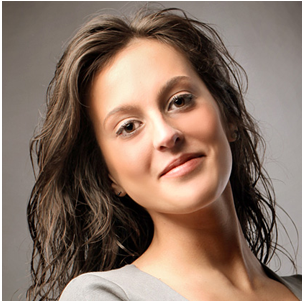
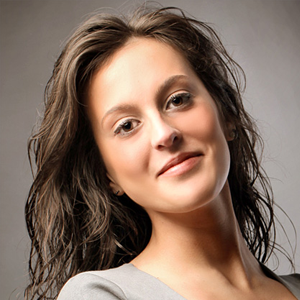
feat: add pictures on page

diff --git a/singolo2.html b/singolo2.html
@@ -3,16 +3,14 @@
 <head>
     <meta charset="UTF-8">
     <title>Singolo part 2</title>
+    <link href="https://fonts.googleapis.com/css?family=Lato:300,400,900&display=swap" rel="stylesheet">
+    <link href="./singolo2.css" rel="stylesheet">
 </head>
 <body>
-<header>
-    <div class="wrapper">
-        <h1 class="header_name">Portfolio</h1>
-        <div class="header_description">Duis mollis, est non commodo luctus, nisi erat porttitor ligula, eget lacinia odio sem nec elit.</div>
-    </div>
-</header>
 <main>
     <div class="wrapper">
+        <div class="header_name">Portfolio</div>
+        <div class="header_description">Duis mollis, est non commodo luctus, nisi erat porttitor ligula, eget lacinia odio sem nec elit.</div>
         <div class="navigation">
             <div class="tag">All</div>
             <div class="tag">Web Design</div>
@@ -20,47 +18,100 @@
             <div class="tag">Artwork</div>
         </div>
         <div class="pictures">
-            <div class="picture"></div>
-            <div class="picture"></div>
-            <div class="picture"></div>
-            <div class="picture"></div>
-            <div class="picture"></div>
-            <div class="picture"></div>
-            <div class="picture"></div>
-            <div class="picture"></div>
-            <div class="picture"></div>
-            <div class="picture"></div>
-            <div class="picture"></div>
-            <div class="picture"></div>
+            <div class="picture">
+                <span class="picture1"></span>
+            </div>
+            <div class="picture">
+                <span class="picture2"></span>
+            </div>
+            <div class="picture">
+                <span class="picture3"></span>
+            </div>
+            <div class="picture">
+                <span class="picture4"></span>
+            </div>
+            <div class="picture">
+                <span class="picture5"></span>
+            </div>
+            <div class="picture">
+                <span class="picture6"></span>
+            </div>
+            <div class="picture">
+                <span class="picture7"></span>
+            </div>
+            <div class="picture">
+                <span class="picture8"></span>
+            </div>
+            <div class="picture">
+                <span class="picture9"></span>
+            </div>
+            <div class="picture">
+                <span class="picture10"></span>
+            </div>
+            <div class="picture">
+                <span class="picture11"></span>
+            </div>
+            <div class="picture">
+                <span class="picture12"></span>
+            </div>
         </div>
+        <div class="main_bottom_line"></div>
     </div>
 </main>
 <footer>
     <div class="wrapper">
-        <h2>About Us</h2>
+        <div>About Us</div>
         <div class="about_description">
             Fusce dapibus, tellus ac cursus commodo, tortor mauris condimentum. Duis mollis, non commodo luctus, nisi erat porttitor ligula, eget lacinia odio sem nec elit. Fusce dapibus, tellus ac cursus commodo, tortor mauris condimentum nibh.
         </div>
         <div class="people">
             <div class="person_info">
-                <span class="photo"></span>
+                <div class="photo">
+                    <span class="photo1"></span>
+                </div>
                 <h3 class="name">Adam Jensen</h3>
                 <p class="photo_description">Quisque luctus, quam eget molestie commodo, lacus purus cursus purus, nec rutrum tellus dolor id lorem.</p>
-                <div class="social"></div>
+                <div class="socials">
+                    <div class="social">
+                        <span class="facebook"></span>
+                        <span class="google"></span>
+                        <span class="twitter"></span>
+                        <span class="linkedin"></span>
+                    </div>
+                </div>
             </div>
             <div class="person_info">
-                <span class="photo"></span>
+                <div class="photo">
+                    <span class="photo2"></span>
+                </div>
                 <h3 class="name">Desmond Miles</h3>
                 <p class="photo_description">Curabitur vestibulum eget mauris quis laoreet. Phasellus in quam laoreet, viverra lacus ut, ultrices velit.</p>
-                <div class="social"></div>
+                <div class="socials">
+                    <div class="social">
+                        <span class="facebook"></span>
+                        <span class="google"></span>
+                        <span class="twitter"></span>
+                        <span class="linkedin"></span>
+                    </div>
+                </div>
             </div>
             <div class="person_info">
-                <span class="photo"></span>
+                <div class="photo">
+                    <span class="photo3"></span>
+                </div>
                 <h3 class="name">Scolara Visari</h3>
                 <p class="photo_description">Nulla sed nunc et tortor luctus faucibus. Morbi at aliquet turpis, et consequat felis. Quisque condimentum.</p>
-                <div class="social"></div>
+                <div class="socials">
+                    <div class="social">
+                        <span class="facebook"></span>
+                        <span class="google"></span>
+                        <span class="twitter"></span>
+                        <span class="linkedin"></span>
+                    </div>
+                </div>
             </div>
         </div>
+        <div class="footer_bottom_line"></div>
     </div>
 </footer>
 </body>

diff --git a/singolo2.css b/singolo2.css
@@ -1,0 +1,178 @@
+body {
+    margin: 0;
+    padding: 0;
+    font-family: Lato, Verdana, sans-serif;
+}
+
+main .wrapper {
+    background-color: #2d2f39;
+    width: 1020px;
+    height: 870px;
+}
+
+.main_bottom_line {
+    width: 1020px;
+    height: 6px;
+    background-color: #323746;
+}
+
+footer .wrapper {
+    width: 1020px;
+    height: 728px;
+    background-color: #f2f2f2;
+}
+
+.footer_bottom_line {
+    width: 1020px;
+    height: 6px;
+    background-color: #ffffff;
+}
+
+.header_name {
+    font-size: 30px;
+    line-height: 18px;
+    color: #666d89;
+    font-weight: 900;
+    text-align: left;
+}
+
+.header_description {
+    width: 940px;
+    height: 57px;
+    font-size: 18px;
+    line-height: 30px;
+    color: #767e9e;
+    font-weight: 300;
+    text-align: left;
+}
+
+/*Images*/
+
+.picture {
+    height: 187px;
+    width: 220px;
+}
+
+.picture1 {
+    display: block;
+    background-image: url("./assets/singolo2/pictures/picture1.png");
+    height: 100%;
+}
+
+.picture2 {
+    display: block;
+    background-image: url("./assets/singolo2/pictures/picture2.png");
+    height: 100%;
+}
+
+.picture3 {
+    display: block;
+    background-image: url("./assets/singolo2/pictures/picture3.png");
+    height: 100%;
+}
+
+.picture4 {
+    display: block;
+    background-image: url("./assets/singolo2/pictures/picture4.png");
+    height: 100%;
+}
+
+.picture5 {
+    display: block;
+    background-image: url("./assets/singolo2/pictures/picture5.png");
+    height: 100%;
+}
+
+.picture6 {
+    display: block;
+    background-image: url("./assets/singolo2/pictures/picture6.png");
+    height: 100%;
+}
+
+.picture7 {
+    display: block;
+    background-image: url("./assets/singolo2/pictures/picture7.png");
+    height: 100%;
+}
+
+.picture8 {
+    display: block;
+    background-image: url("./assets/singolo2/pictures/picture8.png");
+    height: 100%;
+}
+
+.picture9 {
+    display: block;
+    background-image: url("./assets/singolo2/pictures/picture9.png");
+    height: 100%;
+}
+
+.picture10 {
+    display: block;
+    background-image: url("./assets/singolo2/pictures/picture10.png");
+    height: 100%;
+}
+
+.picture11 {
+    display: block;
+    background-image: url("./assets/singolo2/pictures/picture11.png");
+    height: 100%;
+}
+
+.picture12 {
+    display: block;
+    background-image: url("./assets/singolo2/pictures/picture12.png");
+    height: 100%;
+}
+
+.photo {
+    width: 300px;
+    height: 300px;
+}
+
+.photo1 {
+    display: block;
+    background-image: url("./assets/singolo2/photos/photo1.png");
+    height: 100%;
+}
+
+.photo2 {
+    display: block;
+    background-image: url("./assets/singolo2/photos/photo2.png");
+    height: 100%;
+}
+
+.photo3 {
+    display: block;
+    background-image: url("./assets/singolo2/photos/photo3.png");
+    height: 100%;
+}
+
+.social {
+    width: 34px;
+    height: 35px;
+}
+
+.facebook {
+    display: block;
+    background-image: url("./assets/singolo2/social/facebook.png");
+    height: 100%;
+}
+
+.google {
+    display: block;
+    background-image: url("./assets/singolo2/social/google.png");
+    height: 100%;
+}
+
+.twitter {
+    display: block;
+    background-image: url("./assets/singolo2/social/twitter.png");
+    height: 100%;
+}
+
+.linkedin {
+    display: block;
+    background-image: url("./assets/singolo2/social/linkedin.png");
+    height: 100%;
+}
